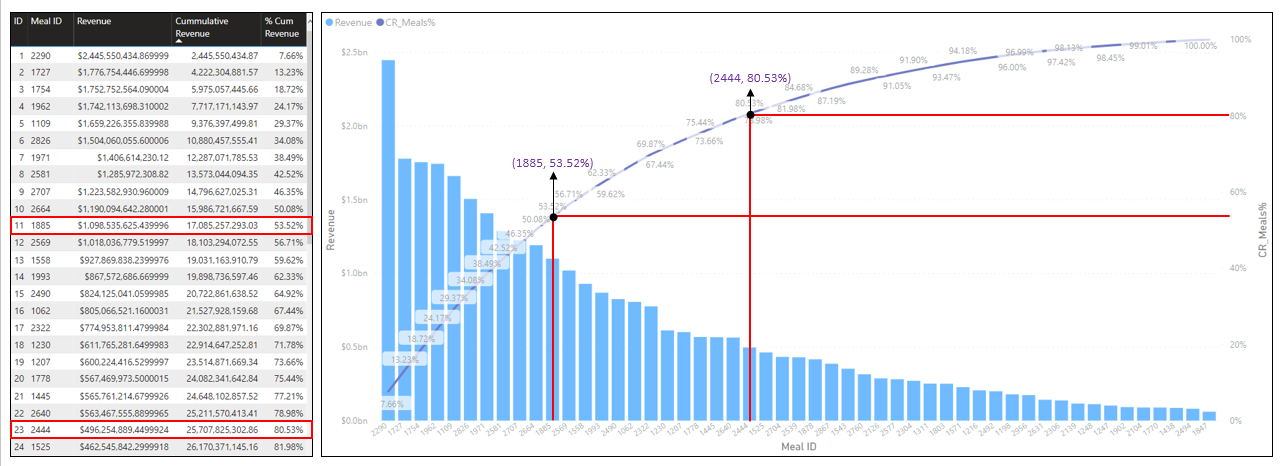
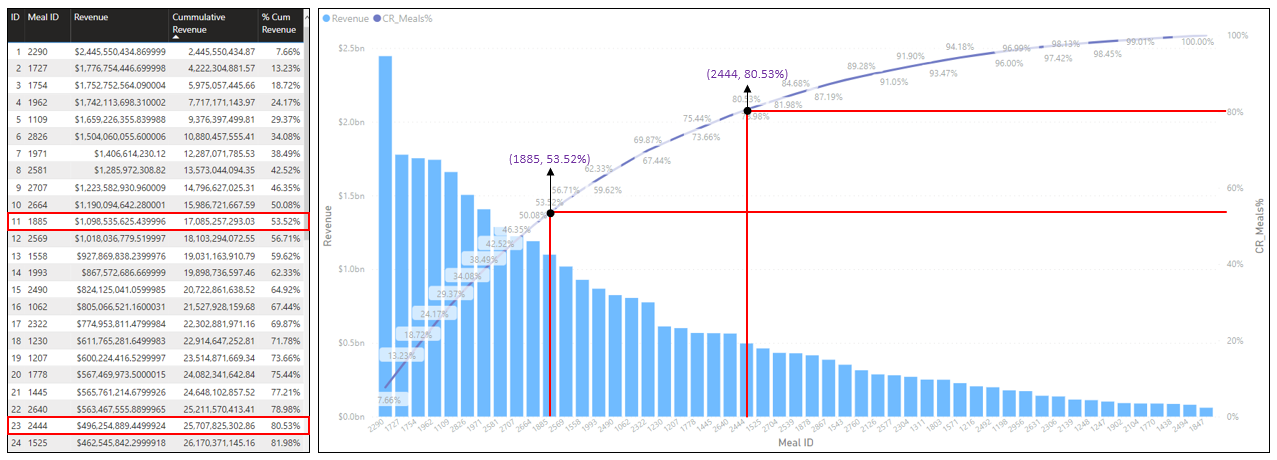
conclusion & reference

Changed region(s): [[0.0, 0.0, 1.0, 1.0], [0.9468, 0.3957, 0.9773, 0.4261]]

diff --git a/README.md b/README.md
@@ -36,13 +36,13 @@ Dataset covers weekly demand data across the business' 77 different locations fo
 
 ### Pareto Principle
 
-According to Investopedia, it is an observation that often a small subset of many causes are responsible for the most observation. The original observation of the Pareto Principle was linked to the relationship between wealth and population. In accordance to what Pareto said, 80% of the land in Italy was owned by 20% of the population.
+It is an observation that often a small subset of many causes are responsible for the most observation. The original observation of the Pareto Principle was linked to the relationship between wealth and population. In accordance to what Pareto said, 80% of the land in Italy was owned by 20% of the population.
 
 Correlatively, we observed if the meal delivery business followed this principle. Is 80% of the business' revenue generated from 20% of delivery locations? Is 80% of the business' revenue generated from 20% of the meals being delivered?
 
 #### Does Pareto hold for Revenue and Delivery Locations?
 
-Already, we established that there are 77 distinct delivery locations and revenue generated within this period was about $31.92 billion. If Pareto were to hold, the top 16 locations (20% of the delivery locations) by revenue should generate at least $25.54 billion (80% of the revenue).
+Already, we established that there are 77 distinct delivery locations and revenue generated within this period was about $31.92 billion. Center 13 appears to be the most productive delivery location by revenue. If Pareto were to hold, the top 16 locations (20% of the delivery locations) by revenue should generate at least $25.54 billion (80% of the revenue).
 
 ![Delivery Location Pareto Observation](images/center-pareto.png)
 
@@ -50,7 +50,7 @@ Evidently, the cumulative revenue at the 16th delivery center is about 35% of th
 
 #### Does Pareto hold for Revenue and Meals Delivered?
 
-Similarly, there are 51 distinct meals delivered across the business locations distributed into 14 categories. The top 5 selling categories are Beverages, Rice Bowl, Sandwich, Pizza, and Salad.
+Similarly, there are 51 distinct meals delivered across the business locations distributed into 14 categories. The top 5 selling categories are Beverages, Rice Bowl, Sandwich, Pizza, and Salad. The Indian Rice Bowl cuisine if the meal with the highest revenue.
 
 Following Pareto rule, expectedly, the revenue from the top 11 (20% of the meals) delivered meals should account for at least $25.54 billion.
 
@@ -58,14 +58,57 @@ Following Pareto rule, expectedly, the revenue from the top 11 (20% of the meals
 
 Again, the cumulative revenue for the top 20% of meals do not amount to 80% of the generated revenue. The analysis shows that 80% of the revenue is actually generated by the top 23 delivery centers.
 
-### Top-N
+Conclusively, it's important to note that there is a practical reason for applying the Pareto Rule. For example, if 20% of our delivery location is driving 80% revenue, we may want to focus on those locations to maximize the potential value by increasing operation/human power there; or possibly, reward the customers in those regions for their loyalty. 
 
-### Predictive Analytics
+Similarly, if 20% of our meals are generating 80% revenue, we may wish to produce more of them or explore the possibilites of preparing other varieites of those meals.
+
+In this regard, the Pareto Rule can be a guide for how to allocate resources, time, and man-power efficiently.
+
+Suffice to say, if the business doesn't follow Pareto like our case, it doesn't call for alarm. Confidently, we could say majority of our delivery locations are performing well. Our direction may be focused on the least performing delivery location/meals to identify opportunities for improvement.
 
 ### Key Influencers
 
+This inbuilt feature helps you understand the factors that drive a metric you're interested in. It analyzes your data, ranks the factors that matter, and displays them as key influcencers.
+
+In this project, we leveraged this feature to identify, if any, the relationship between the operational area of a delivery location/store and the location's number of orders. Also, a relationship with Emails and Product featured on the homepage was investigated.
+
+
+![Key Influencers](images/key-influencers.png)
+
+#### Email Promotion vs Number of Orders
+
+The `emailer_for_promotion` column is made up of two distinct entries: 0 or 1. 
+
+`0` means the order wasn't driven by an email promotion
+`1` means the order was driven by an email promotion
+
+Consequently, the key influencers tells us that there is a direct relationship between number of orders and email promotion. Number of order is likely to increase when the send out promotion email for meals.
+
+#### Homepage Feature vs Number of Orders
+
+The `homepage_featured` column is made up of two distinct entries: 0 or 1. 
+
+`0` means the order wasn't driven by the meal's homepage feature
+`1` means the order was driven by the meal's homepage feature
+
+Key influencers identifies that the number of order is likely to increase when a meal is featured in the homepage.
+
+#### Operation Area vs Number of Orders
+
+The `op_area` column is made up of numeric values ranging from 0.9 to 7.0. 
+
+As seen, the number of order increases with increasing operation area. Instinctively, we can agree that locations with smaller spaces will likely drive away potential buyers at that instance. Accordingly, the business owners may consider increasing the operational area to grow sales in centers with low figures.
+
 ## Conclusion
+
+Conclusively, we've been able to identify insights into our food delivery business. From Pareto and Key Influencers analysis, we're able to draw opportunities to grow the business revenue even more.
+
+Some other analysis not included in this article include predictive analytics that forecasts the next couple of weeks demands at various confidence intervals, Top-N analysis, and so on.
+
+If you're intersting in accessing the PowerBI file for this project, please do [send me a mail](mailto:chidindego@gmail.com). Thanks for your time. 
 
 ## Reference
 
+*   [Pareto Principle](https://www.investopedia.com/terms/p/paretoprinciple.asp)
+*   [Key Influencers](https://learn.microsoft.com/en-us/power-bi/visuals/power-bi-visualization-influencers?tabs=powerbi-desktop)
 
